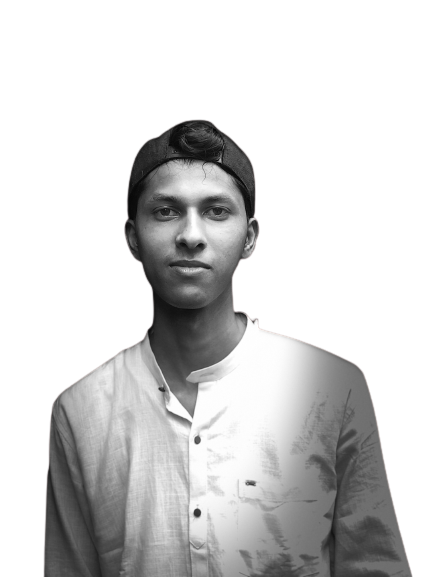
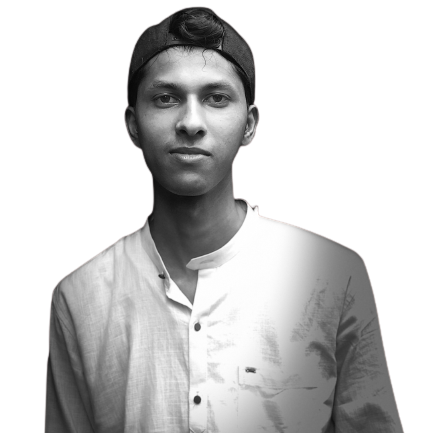
fix: fixed home section

diff --git a/src/components/Home.jsx b/src/components/Home.jsx
@@ -6,30 +6,30 @@ const Home = () => {
   return (
     <div
       id="home"
-      className="h-screen  w-full flex flex-col-reverse sm:flex-row  "
+      className="sm:h-screen w-full flex flex-col sm:flex-row-reverse text-gray-200 items-center justify-between"
     >
-      <div className="mx-w-[1000px] sm:mt-[0px] mt-[0px] sm:mx-auto m-10 flex flex-col  justify-center h-full">
-        <p className=" sm:text-2xl text-[35px]    text-red-500 font-bold">
-          Hii,my name is
-        </p>
-        <h1 className="sm:text-6xl text-6xl   text-stone-100">
-          Saurabh Shukla
-        </h1>
-        <h2 className="sm:text-3xl text-xl  text-orange-200 ">
-          I am a front-end developer
-        </h2>
-        <p className="sm:text-2xl text-[14px]  text-emerald-500">
-          I am a web developer specializing in building websites. <br />I am
-          also learning data structures and algorithms. Wanna talk about tech ?
-          Let's CONNECT.
-        </p>
-      </div>
-      <div className="">
+      <div className="flex justify-center sm:w-1/2">
         <img
-          className="mt-[60px] sm:mr-[55px] sm:ml-[0px] ml-[80px] rounded-full sm:w-[450px] w-[170px] "
+          className="mt-16 sm:m-0 w-64 h-64 sm:w-[30vw] sm:h-[30vw] rounded-full"
           src={Logo}
           alt=""
         />
+      </div>
+      <div className="flex flex-col p-16 sm:w-1/2 items-center">
+        <div>
+          <p className="text-gray-300 text-sm sm:text-lg">
+            <span>&#128075;</span>Hi, I'm
+          </p>
+          <h1 className="font-extrabold text-2xl sm:text-4xl">
+            SAURABH SHUKLA
+          </h1>
+          <h2 className="text-gray-300 text-sm sm:text-lg">
+            {"→ "}I am a front-end developer
+          </h2>
+          <p className="text-gray-300 text-sm sm:text-lg">
+            {"→ "}I am also learning data structures and algorithms.
+          </p>
+        </div>
       </div>
     </div>
   );

diff --git a/src/components/Navbar.jsx b/src/components/Navbar.jsx
@@ -5,7 +5,7 @@ import { HiDocumentText } from "react-icons/hi";
 const Navbar = () => {
   return (
     <div className="w-full">
-      <div className="fixed w-full px-2 py-4 bg-gradient-to-b from-gray-900 to-transparent flex items-center">
+      <div className="fixed w-full p-4 bg-gradient-to-b from-gray-900 to-transparent flex items-center">
         <a href="#home" className="">
           <h1 className="text-2xl sm:text-4xl text-gray-200 font-bold">
             <span className="text-green-400">S</span>AURABH{" "}
